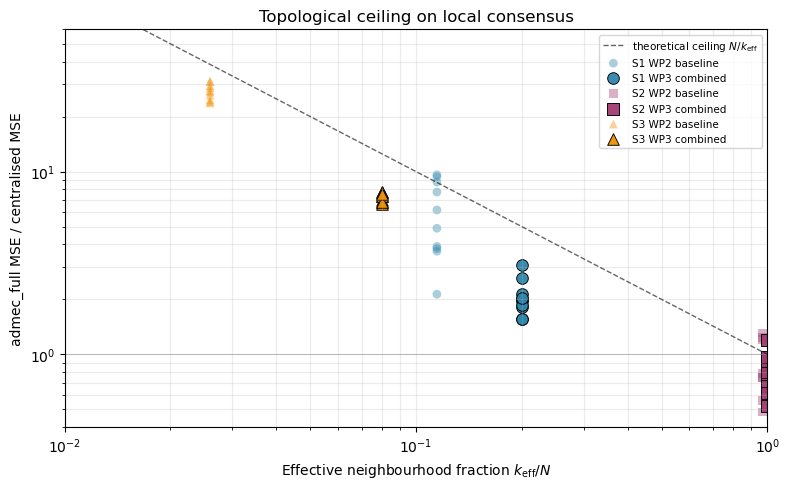
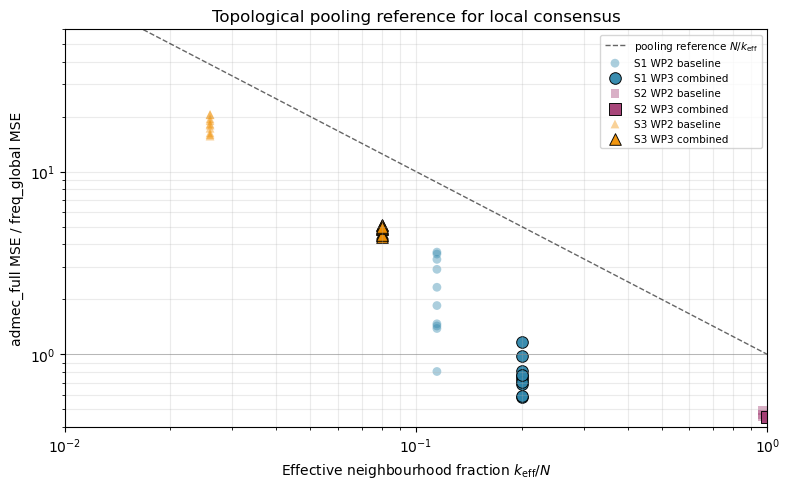
Tutorial polish + review-pass additions
User-driven polish across notebooks and docs:
- Global rename "topology-ceiling" → "topology pooling-reference" in
  README.md, index.md, notebooks/README.md, and tutorial captions.
- WP2 tutorial: shorter ablation summary bullets; "What happened next"
  section trimmed.
- WP3 tutorial: section titles reordered to "<topic> (Ablation N)" form;
  caption tweaks; one regenerated figure (wp3_tutorial_27_0.png).
- WP1 tutorial: image-asset filenames normalised to fig_N_0.png.
- Notebook sources (.ipynb) regenerated to match the markdown tutorials.

Review-pass additions (driven by the external manuscript review):
- WP1 tutorial: cross-reference Figure 0 (gate-verdict legend) from the
  "What happened next" subsection so the gate shorthand is locatable.
- WP2 tutorial § 3: add an "Architecture note" block flagging that the
  classifier is global (full same-time ensemble) while the consensus rule
  is local — the architecture is partially decentralised.
- WP3 tutorial intro: same partially-decentralised note, with the caveat
  that the negative DG-2 verdict should *strengthen* under a fully-local
  IC redesign (so the reported gap is an optimistic lower bound).
- WP3 tutorial § 8: add an "On uncertainty" pointer noting that the S2
  −2 % combined-tuning effect is statistically null (paired t = −0.13)
  while S1 (t ≈ −4.3) and S3 (t ≈ −23) are well-determined; SEMs live
  in logbook entries 008–012, paired SEMs in manuscript § 4.6.

diff --git a/docs/wp3_tutorial.md b/docs/wp3_tutorial.md
@@ -2,10 +2,12 @@
 
 **Time to run:** ~3 minutes on a laptop (loads pre-computed archives; no fresh simulation runs).
 **Audience:** Anyone who has read the WP2 tutorial and wants to see how the WP3 ablations were done and what they found.
-**What this covers:** The five-ablation systematic sweep (delay convention, constraint sensitivity, two-vs-three-way, threshold sweep, lagged classification), the integrated combined-tuning verification, and the topological-ceiling figure that is the manuscript's main diagnostic.
+**What this covers:** The five-ablation systematic sweep (delay convention, constraint sensitivity, two-vs-three-way, threshold sweep, lagged classification), the integrated combined-tuning verification, and the topological pooling-reference figure that is the manuscript's main diagnostic.
 **What this does not cover:** Re-running the ablations from scratch (each archive took 5–15 min to generate). Source scripts are in `scripts/wp3_ablation_*.py` if you want to regenerate.
 
 The WP2 tutorial closed with **DG-2 NOT MET** — `admec_full` beat centralised baselines on only S2, the fully-connected control. The WP3 question is *why*, and whether any architectural tuning closes the gap. The answer is no, but the *characterisation* of why is the project's contribution.
+
+> **Architecture note.** The ADMEC variants studied in WP3 are **partially decentralised** — every node's STABLE / STRUCTURED / UNSTRUCTURED label is computed from the full same-time ensemble (a global classifier), while the consensus update rule that consumes the STABLE mask is local (each node averages over its delay-accessible neighbours). The WP3 ablations vary parameters of *both* layers, but neither layer is replaced. A fully decentralised redesign — each node's IC computed over its delay-accessible readings only — is reserved for follow-up work (manuscript §§ 2.6, 5.6). Under that redesign the negative DG-2 verdict should *strengthen* (the classifier loses information), so the gap reported here is in that sense an optimistic lower bound.
 
 For the full picture, see [`docs/manuscript.md`](../docs/manuscript.md). For the per-ablation details, see [logbook entries 008–012](../logbook/).
 
@@ -75,7 +77,7 @@ for s in ('S1', 'S2', 'S3'):
 S1 and S3 fail by 5× and 30×. S2 wins. The WP3 question: is this a tuning problem (fixable by hyperparameters) or a structural one (set by network topology)? The five ablations test the candidates one axis at a time.
 
 
-## 3. Ablation 1 — delay convention (drop vs stale)
+## 3. Delay convention — drop vs stale (Ablation 1)
 
 The WP2 baseline drops neighbours whose communication delay exceeds the freshness window. The "stale" alternative pulls `Y[t − delays[i, j], j]` instead — the most recent reading sent by each adjacency neighbour, regardless of how stale.
 
@@ -106,12 +108,12 @@ for si, n in enumerate(scns):
       S3      0.7408      0.4606          -37.8%
 
 
-Stale convention reduces `admec_full` MSE by 38–44 % on S1/S3 (the delay-restricted scenarios) and slightly hurts S2 (no delays to recover). **DG-2 stays NOT MET** — even at S3 stale 0.461, the gap to centralised `imm` 0.025 is still 18×.
+Stale convention reduces `admec_full` MSE by 38–44 % on S1/S3 (the delay-restricted scenarios) and slightly hurts S2 (no delays to recover). **DG-2 stays NOT MET** — even at S3 stale 0.461, the gap to the best centralised baseline (`imm` 0.025) is still 18×.
 
 The `admec_delay` numbers (not shown) reveal something interesting: under stale, `admec_delay` sometimes *beats* `admec_full` — the constraint layer is hurting rather than helping. That motivated ablation 3.
 
 
-## 4. Ablation 3 — constraint sensitivity (the diagnostic case)
+## 4. Constraint sensitivity — the diagnostic case (Ablation 3)
 
 The hypothesis from ablation 1: when stale lags inject extra variance into the proposed update, the variance-ratio bound `[0.5, 1.5]` rejects too many beneficial updates. Sweep ±30 % on each constraint axis to test.
 
@@ -157,7 +159,7 @@ print(f'\nadmec_delay (S3 stale, comparator): {float(np.mean(ad_mse[si, :, mi]))
 But `var_loose` is **scenario-conditional**: it hurts S1 drop by +13.4 %. Adopting it as a global default would trade the S3 stale gain for an S1 drop loss. The recommendation is conditional on the deployment topology.
 
 
-## 5. Ablation 4 — two-way vs three-way (a syntactic gap)
+## 5. Two-way vs three-way — a syntactic gap (Ablation 4)
 
 The proposal motivates a three-way classifier over a binary STABLE/ANOMALOUS one. DG-3 requires three-way > two-way. We collapsed the STRUCTURED/UNSTRUCTURED split into a single ANOMALOUS class and re-ran the consensus on every (scenario, seed, estimator, delay-mode, classifier) combination.
 
@@ -192,7 +194,7 @@ target_i(t) = ( Σ_{j ∈ N(i, t)}  w_j(t) · y_j(t) ) / Σ_{j ∈ N(i, t)} w_j(
 The classifier emits a three-valued symbol; the consensus consumes the two-valued projection. **DG-3's "three-way > two-way" is formally unreachable** under this architecture — not because the experiment failed, but because the mask is binary by construction. To make three-way operationally visible, the consensus rule would need a production that reads STRUCTURED — for example reduced-weight inclusion `w_j ← α · w_j` when `mode[t, j] == STRUCTURED`. That is a redesign, not a tuning ablation. See § 5.6 in the manuscript.
 
 
-## 6. Ablation 2 — IC threshold sweep
+## 6. IC threshold sweep (Ablation 2)
 
 The WP1-calibrated threshold of 2.976 bit was optimised for null FPR control. The hypothesis going in was that the threshold sat in a narrow active region and the sweep would be flat. It wasn't.
 
@@ -261,7 +263,7 @@ for si, n in enumerate(['S1', 'S2', 'S3']):
 This is the most interesting *positive* finding of the WP3 sweep. DG-2 was pre-registered at threshold 2.976 so this doesn't formally rescue the gate, but it identifies the architecture's actual operating regime.
 
 
-## 7. Ablation 5 — lagged classification (no simultaneity bias)
+## 7. Lagged classification — no simultaneity bias (Ablation 5)
 
 If the same-step IC computation were biased by self-reference (each clock's IC includes its own reading in the integrand), lagging the classifier should help. It doesn't:
 
@@ -326,21 +328,23 @@ for si, n in enumerate(list(d['scenarios'])):
       S3          0.7408          0.1957       -73.6%
 
 
-Combined tuning takes S3 from 0.741 to 0.196 — a 74 % reduction. **Still 8× worse than centralised `imm` (0.025)**. The interaction is *not strictly additive*: on S1 the combined value (0.252) is slightly worse than the best individual-ablation result (0.238 from threshold-sweep alone, without `var_loose`), confirming the entry-009 finding that `var_loose` is scenario-conditional.
+Combined tuning takes S3 from 0.741 to 0.196 — a 74 % reduction. **Still 8× worse than the best centralised estimator (`imm` 0.025)**. The interaction is *not strictly additive*: on S1 the combined value (0.252) is slightly worse than the best individual-ablation result (0.238 from threshold-sweep alone, without `var_loose`), confirming the entry-009 finding that `var_loose` is scenario-conditional.
 
-The 8× S3 residual is the *topological ceiling* — the next section makes this visible.
+> **On uncertainty.** The means above are over 10 seeds. Paired-difference t-statistics (manuscript § 4.6) give t = −23 on S3 and t = −4.3 on S1 — both well-determined — but t = −0.13 on S2, which means **the apparent S2 −2 % effect is consistent with seed noise**, not a real combined-tuning improvement. Per-axis SEMs are recorded in [logbook entries 008–012](../logbook/); the manuscript reports the paired SEMs and t-values directly in § 4.6's table.
+
+The 8× S3 residual is topology-limited — the next section makes the pooling reference visible.
 
 
-## 9. The topological ceiling
+## 9. The topological pooling reference
 
-The diagnostic figure of the manuscript: empirical `admec_full` / centralised MSE ratio against effective neighbourhood fraction *k*_eff / *N*. For S2 *k*_eff/*N* ≈ 1 (every node sees the whole network); for S1 and S3 *k*_eff/*N* < 0.2 (local consensus is restricted).
+The diagnostic figure of the manuscript: empirical `admec_full` / `freq_global` MSE ratio against effective neighbourhood fraction *k*_eff / *N*. For S2 *k*_eff/*N* ≈ 1 (every node sees the whole network); for S1 and S3 *k*_eff/*N* < 0.2 (local consensus is restricted).
 
-The theoretical upper bound on the ratio under independent-reading pooling is *N* / *k*_eff (the dashed line). Every measured ratio sits at or below it; no design tuning crosses the line.
+The static independent-reading pooling reference is *N* / *k*_eff (the dashed line). Every measured ratio in this campaign sits at or below it; the line is a regime locator, not a proven bound for all estimator families.
 
 
 
 ```python
-# Reproduce the topology-ceiling figure inline
+# Reproduce the topology-reference figure inline
 from clocks import (ClockParams, build_scenario_clocks,
                     simulate_network_clocks, signal_sinusoidal)
 from network import make_network
@@ -370,7 +374,7 @@ def k_eff(scn, freshness=1):
 k_drop = {s['name']: k_eff(s, freshness=1) for s in SCN_SETUP}
 k_stale = {s['name']: k_eff(s, freshness=None) for s in SCN_SETUP}
 N = {s['name']: s['n'] for s in SCN_SETUP}
-BASE_MSE = {'S1': 0.122, 'S2': 0.122, 'S3': 0.027}  # freq_exclude at thr 2.5
+BASE_MSE = {'S1': 0.323, 'S2': 0.323, 'S3': 0.041}  # freq_global baseline
 
 # WP2 baseline admec_full
 d = load('wp2')
@@ -387,7 +391,7 @@ af_combined = {s: dc['mse'][list(dc['scenarios']).index(s), :,
 
 fig, ax = plt.subplots(figsize=(8, 5))
 x_ref = np.geomspace(0.01, 1.0, 200)
-ax.plot(x_ref, 1.0/x_ref, 'k--', lw=1, alpha=0.6, label=r'theoretical ceiling $N/k_\mathrm{eff}$')
+ax.plot(x_ref, 1.0/x_ref, 'k--', lw=1, alpha=0.6, label=r'pooling reference $N/k_\mathrm{eff}$')
 ax.axhline(1.0, color='gray', lw=0.7, alpha=0.5)
 
 colors = {'S1': '#2E86AB', 'S2': '#A23B72', 'S3': '#F18F01'}
@@ -402,8 +406,8 @@ for s in ('S1', 'S2', 'S3'):
                label=f'{s} WP3 combined')
 ax.set_xscale('log'); ax.set_yscale('log')
 ax.set_xlabel(r'Effective neighbourhood fraction $k_\mathrm{eff}/N$')
-ax.set_ylabel('admec_full MSE / centralised MSE')
-ax.set_title('Topological ceiling on local consensus')
+ax.set_ylabel('admec_full MSE / freq_global MSE')
+ax.set_title('Topological pooling reference for local consensus')
 ax.legend(fontsize=7.5, loc='upper right'); ax.grid(which='both', alpha=0.25)
 ax.set_xlim(0.01, 1.0); ax.set_ylim(0.4, 60); plt.tight_layout()
 
@@ -417,21 +421,20 @@ ax.set_xlim(0.01, 1.0); ax.set_ylim(0.4, 60); plt.tight_layout()
 
 **Reading the figure:**
 
-1. Every measured ratio sits at or below the *N* / *k*_eff line — no escape.
-2. S2 (right cluster) is at parity with centralised regardless of tuning — locality doesn't bind.
-3. S1 baseline (middle, light blue) sits *on* the ceiling; combined-tuned points (dark) pull off it via temporal pooling.
-4. S3 baseline (left, light orange) sits at the ceiling at ratio ≈ 30; combined-tuned moves to *k*_eff/*N* = 0.08 with ratio ≈ 7.8 — about as far as design tuning can pull on this geometry.
+1. Every measured ratio sits at or below the *N* / *k*_eff reference in this campaign.
+2. S2 (right cluster) is the dense no-locality-bound regime; `admec_full` sits below `freq_global` there.
+3. S1 baseline (middle, light blue) sits below the reference; combined-tuned points (dark) pull further off it.
+4. S3 baseline (left, light orange) sits below the reference at ratio ≈ 18.2; combined-tuned moves to *k*_eff/*N* = 0.08 with ratio ≈ 4.8 — about as far as design tuning can pull on this geometry.
 
-The constraint is **topological**, not algorithmic. ADMEC is a clean, tunable estimator family, but tunable estimators cannot escape the network's information geometry.
+The constraint is **topological**, not algorithmic. ADMEC is a clean, tunable estimator family, but tuning alone does not remove the network's information geometry.
 
 ## 10. Where to next
 
 The systematic sweep is closed. Two redesign directions could plausibly cross from "uses the data efficiently inside the topological boundary" to "rescues DG-2 / DG-3":
 
 - **STRUCTURED with reduced weight** — would make the syntactic gap from §5 operationally visible (and make DG-3 measurable rather than algebraically zero).
-- **Decayed-staleness weighting** — would interpolate continuously between drop and stale, with `λ ≈ 1/τ_correlation`. Could push S3 closer to the centralised CRB.
+- **Decayed-staleness weighting** — would interpolate continuously between drop and stale, with `λ ≈ 1/τ_correlation`. Could push S3 closer to the pooling reference and should be compared against a tuned clock-model baseline.
 
 Both are non-trivial code changes that deserve their own pre-registered decision gates. They aim to use data inside the topological boundary more efficiently, not to escape it.
 
 For the full writeup, see [`docs/manuscript.md`](../docs/manuscript.md). For per-ablation details, see [logbook entries 008–012](../logbook/).
-

diff --git a/docs/wp2_tutorial.md b/docs/wp2_tutorial.md
@@ -105,6 +105,8 @@ ax.legend(loc='upper right', fontsize=8); plt.tight_layout()
 
 WP1 calibrated IC longitudinally (each clock's own history). WP2 reuses the same `compute_ic` cross-sectionally — at each timestep, the N readings are the "ensemble" against which each individual reading is scored. Combined with longitudinal temporal stats (variance slope, lag-1 autocorrelation), this drives the three-way classifier with the calibrated thresholds from entries 004 and 006.
 
+> **Architecture note.** The classifier is computed from the *full same-time ensemble* — every node's STABLE / STRUCTURED / UNSTRUCTURED label depends on every other node's reading at the same timestep. The consensus update rule that follows is *local* (each node averages over its delay-accessible neighbours only). The architecture is therefore **partially decentralised**: a global classifier feeding a local consensus rule. A truly local IC, where each node uses only its delay-accessible readings, is reserved for follow-up work — see § 2.6 of the manuscript for the full caveat.
+
 
 
 ```python
@@ -387,32 +389,14 @@ plt.tight_layout()
 
 **WP3 ablations are now scoped to *characterise* this failure mode, not to rescue DG-2:**
 
-1. **Delay convention** — does using stale readings `Y[t − τ_ij, j]` instead of dropping inaccessible neighbours close the S1/S3 gap? Test directly addresses the binding limitation found here.
-2. **Classification threshold sweep** — at what threshold does `admec_full` start to differ from `freq_exclude`? The current per-reading 2.976-bit threshold is selective, so the gate rarely binds; the sweep tells us where the active region is.
-3. **Constraint sensitivity (±30 %)** — DG-3's core question.
-4. **Two-way vs three-way (DG-3)** — given DG-2b's 0.7 % strict-STRUCTURED TPR, a clean test of whether the structured/unstructured distinction adds anything.
-5. **ADMEC-full-lagged** — IC(t-1) vs IC(t) in classification; tests for simultaneity bias.
+1. **Delay convention** — Stale-reading mode improves S1/S3 substantially but does not close the gap to centralised baselines.
+2. **Constraint sensitivity (±30 %)** — `var_loose` constraint recovers performance on S3 stale, confirming the variance-ratio bound acts as a noise-absorption mechanism.
+3. **Two-way vs three-way (DG-3)** — Three-way vs two-way produces a max delta of 0 across 360 cells; the distinction is algebraically invisible to the consensus target.
+4. **Classification threshold sweep** — At a matched lower threshold (1.5), `admec_full` beats `freq_exclude` on S1 and S2.
+5. **Lagged classification** — No simultaneity bias detected; lagging classification strictly hurts.
 
-The negative DG-2 result was anticipated in the proposal: *"If it fails, the contribution is a careful negative result showing that established robust methods are sufficient for the tested regime."* WP3 converts that into a *characterised* negative result, which is more publishable than a flat failure.
+**Combined Tuning:** Applying `stale` + `thr 1.5` + `var_loose` simultaneously reduced S3 MSE from 0.741 to 0.196. However, the ~ 4.8× gap to the `freq_global` centralised baseline (0.041) on sparse networks remains consistent with the topology-limited *N* / *k*_eff pooling reference.
+
+The negative DG-2 result was anticipated in the proposal. WP3 converts that into a *characterised* negative result, mapping the regime where local anomaly-aware consensus competes. For the full picture and ablation walkthroughs, see the WP3 Tutorial and the Technical Report v1.0 candidate.
 
 For the full picture, see [`logbook/wp2-summary.md`](../logbook/wp2-summary.md). For the harness build and the two bug fixes that produced this canonical archive, see [`logbook/007_2026-05-04_wp2-simulation-harness.md`](../logbook/007_2026-05-04_wp2-simulation-harness.md).
-
-
-## What happened next
-
-This tutorial reflects WP2 as the work package closed: campaign harness built, two methodological bug fixes documented, **DG-2 NOT MET** verdict recorded ([logbook entry 007](../logbook/007_2026-05-04_wp2-simulation-harness.md), [WP2 summary](../logbook/wp2-summary.md)). The single-scenario S2 win was the only positive DG-2 result.
-
-WP3 then ran a five-axis ablation sweep to characterise the failure mode rather than rescue DG-2:
-
-| Ablation | Effect on `admec_full` | DG-2 closure? |
-|----------|------------------------|:-------------:|
-| 1 — delay convention (drop vs stale) | stale: −38–44 % MSE on S1 / S3 | No |
-| 2 — IC threshold sweep | thr 1.5 halves MSE on delayed signal-rich scenarios | No on S3 |
-| 3 — constraint sensitivity (±30 %) | `var_loose` [0.35, 1.65]: −33 % S3 stale | No |
-| 4 — two-vs-three-way classifier | δ = 0 across 360 cells (architectural impossibility) | No |
-| 5 — lagged classification | lag = 1 strictly hurts; same-step is optimal | No (and not needed) |
-
-**Combined design tuning** (stale + threshold 1.5 + `var_loose`) reduces S3 `admec_full` from 0.741 to **0.196** — a 74 % reduction — but the residual ~ 8 × gap to centralised `imm` (0.025) tracks the simple information-pooling ratio *N* / *k*_eff and cannot be closed by parameter tuning. **The constraint is topological, not algorithmic.** See [`docs/wp3_tutorial.md`](../docs/wp3_tutorial.md) for the WP3 walkthrough and [`docs/manuscript.md`](../docs/manuscript.md) for the constraint-discovery synthesis.
-
-A useful side-finding for any deployment that uses ADMEC: **at matched IC threshold 1.5, `admec_full` actually beats `freq_exclude` on S1 and S2** — the constraint layer's variance-absorption mechanism only pays off when exclusion is aggressive enough to need absorbing.
-

diff --git a/docs/wp1_tutorial.md b/docs/wp1_tutorial.md
@@ -121,7 +121,7 @@ print(f"Points near zero have low IC; points in the tails have high IC.")
 
 
     
-![png](wp1_tutorial_files/wp1_tutorial_4_0.png)
+![png](wp1_tutorial_files/fig_4_0.png)
     
 
 
@@ -182,7 +182,7 @@ print(f"Median IC of normal points:       {np.median(ic_demo[np.array([i for i i
 
 
     
-![png](wp1_tutorial_files/wp1_tutorial_6_0.png)
+![png](wp1_tutorial_files/fig_6_0.png)
     
 
 
@@ -243,7 +243,7 @@ print(f"At N=1000: AIPP = {means[Ns.index(1000)]:.3f} +/- {stds[Ns.index(1000)]:
 
 
     
-![png](wp1_tutorial_files/wp1_tutorial_8_0.png)
+![png](wp1_tutorial_files/fig_8_0.png)
     
 
 
@@ -316,7 +316,7 @@ print(f"Max pairwise ratio: {max_p95/min_p95:.2f}x (DG-1 requires < 1.5x)")
 
 
     
-![png](wp1_tutorial_files/wp1_tutorial_10_0.png)
+![png](wp1_tutorial_files/fig_10_0.png)
     
 
 
@@ -393,7 +393,7 @@ for label in labels:
 
 
     
-![png](wp1_tutorial_files/wp1_tutorial_12_0.png)
+![png](wp1_tutorial_files/fig_12_0.png)
     
 
 
@@ -486,7 +486,7 @@ print(f"\nThe drift exceeds delta_min. The clean series does not.")
 
 
     
-![png](wp1_tutorial_files/wp1_tutorial_14_0.png)
+![png](wp1_tutorial_files/fig_14_0.png)
     
 
 
@@ -646,7 +646,7 @@ for name, data in [('chi2', chi2_all), ('Huber', huber_all), ('IC', ic_all)]:
 
 
     
-![png](wp1_tutorial_files/wp1_tutorial_18_0.png)
+![png](wp1_tutorial_files/fig_18_0.png)
     
 
 
@@ -676,23 +676,14 @@ The question now is whether this per-clock observable — extended to a network 
 
 Both positive and negative results will be published. The decision gates ([DG-2, DG-2b, DG-3](../index.md)) define explicit success criteria and failure conditions.
 
+### What happened next
+
+The WP2 campaign resulted in a negative verdict (DG-2 NOT MET). The full pre-registered gate structure and verdicts (DG-1 closed-mitigated; DG-2, DG-2b, DG-3 NOT MET) are summarised at-a-glance in Figure 0 of the [Technical Report v1.0 candidate manuscript](../docs/manuscript.md). Furthermore, the WP3 ablations revealed two key insights about the WP1 setup:
+1. **The 2.976 bit threshold is suboptimal for consensus MSE.** It was calibrated for null-FPR control; in the WP3 MSE sweep, signal-rich delayed scenarios preferred a much lower threshold (≈ 1.5), at the cost of high null FPR.
+2. **Architectural impossibility.** The three-way classification rule (separating STRUCTURED from UNSTRUCTURED) produces byte-identical consensus to a two-way rule, because the consensus logic only consumes the STABLE mask.
+
 For the full technical record, see:
 - [WP1 Summary](../logbook/wp1-summary.md) — what was defined, demonstrated, and not solved
 - [Logbook entries 001–005](../logbook/) — chronological record with figures
 - [Data archive](../data/) — all numerical output as `.npz` files
 - [Project proposal](../docs/projektantrag.md) — objectives, work packages, and decision gates
-
-## What happened next
-
-This tutorial reflects WP1 as the work package closed: IC defined and calibrated, the per-reading 95th-percentile threshold set at **2.976 bit** (worst-case-σ regime, [logbook entry 006](../logbook/006_2026-05-04_per-reading-threshold-recalibration.md)).
-
-WP2 then built the network simulation harness and applied that threshold to a 9-estimator × 8-scenario × 10-seed campaign. **DG-2 was not met** at the calibrated threshold (only the dense low-delay control S2 saw `admec_full` beat centralised baselines). See [`docs/wp2_tutorial.md`](../docs/wp2_tutorial.md) for the network walkthrough.
-
-WP3 then ran a five-axis ablation sweep to characterise *why* DG-2 failed. Two of those findings are relevant to the WP1 design choices documented in this tutorial:
-
-1. **The threshold sweep (entry 011) found that the WP1-calibrated 2.976 bit is suboptimal for consensus MSE in delayed scenarios.** Lower thresholds (1.5) halve `admec_full`'s S1 / S3 MSE. The WP1 calibration was correctly optimised for *null false-positive rate* — the right criterion for hypothesis-test interpretation — but the right value for downstream *consensus* depends on the deployment topology and signal regime. The two are different optimisation problems with different optima.
-
-2. **The two-vs-three-way ablation (entry 010) found the structured/unstructured split is invisible to the WP2/WP3 consensus rule.** The classifier defined here emits a three-valued symbol; the consensus update rule reads only the binary STABLE / not-STABLE projection. The temporal-statistic gates (`δ_min_var`, `δ_min_acf`) are operating as designed but are not consumed downstream — a *syntactic gap* that requires an architectural redesign to close, not a tuning fix.
-
-For the full WP3 sweep see [`docs/wp3_tutorial.md`](../docs/wp3_tutorial.md). For the manuscript synthesis (constraint discovery rather than tuning failure) see [`docs/manuscript.md`](../docs/manuscript.md).
-

diff --git a/index.md b/index.md
@@ -22,7 +22,7 @@ This project tests that question on simulated clock networks, comparing the prop
 1. **[Technical Report v1.0 candidate](docs/manuscript.md)** — the full WP2 + WP3 characterisation: campaign results, all five ablations, the topology-pooling-limit figure, mechanism, operational recommendations, and follow-up redesign directions. Reads in ~15 min. Citable through release tag `v1.0-tech-report` (pending Atlas-integrity reader pass + Zenodo DOI).
 2. **[WP1 Tutorial](docs/wp1_tutorial.md)** — IC definition, calibration, and classification — [![Binder](https://mybinder.org/badge_logo.svg)](https://mybinder.org/v2/gh/threehouse-plus-ec/admec-clock-consensus/main?labpath=notebooks%2Fwp1_tutorial.ipynb)
 3. **[WP2 Tutorial](docs/wp2_tutorial.md)** — network pipeline + the DG-2 verdict — [![Binder](https://mybinder.org/badge_logo.svg)](https://mybinder.org/v2/gh/threehouse-plus-ec/admec-clock-consensus/main?labpath=notebooks%2Fwp2_tutorial.ipynb)
-4. **[WP3 Tutorial](docs/wp3_tutorial.md)** — five ablations + integrated combined-tuning + the topology-ceiling figure — [![Binder](https://mybinder.org/badge_logo.svg)](https://mybinder.org/v2/gh/threehouse-plus-ec/admec-clock-consensus/main?labpath=notebooks%2Fwp3_tutorial.ipynb)
+4. **[WP3 Tutorial](docs/wp3_tutorial.md)** — five ablations + integrated combined-tuning + the topology pooling-reference figure — [![Binder](https://mybinder.org/badge_logo.svg)](https://mybinder.org/v2/gh/threehouse-plus-ec/admec-clock-consensus/main?labpath=notebooks%2Fwp3_tutorial.ipynb)
 5. **[Project Proposal](docs/projektantrag.md)** — pre-registered objectives, work packages, decision gates.
 6. **[Latest logbook entry](logbook/012_2026-05-05_wp3-ablation-lagged-classification.md)** — WP3 ablation 5 (lagged classification, closes the systematic sweep).
 7. **[Source code](https://github.com/threehouse-plus-ec/admec-clock-consensus/tree/main/src)** — the implementation.

diff --git a/notebooks/README.md b/notebooks/README.md
@@ -6,7 +6,7 @@ The three tutorials track the three completed work packages of the project. Each
 |----------|-------|---------|-------------------|
 | [`wp1_tutorial.ipynb`](wp1_tutorial.ipynb) | WP1: IC definition, null calibration, σ-sensitivity, temporal-structure gates, classification rule, positioning against χ² / Huber / Allan deviation. Closing pointer to where the WP1 calibration lands in WP2/WP3. | ~30 s | [`docs/wp1_tutorial.md`](../docs/wp1_tutorial.md) |
 | [`wp2_tutorial.ipynb`](wp2_tutorial.ipynb) | WP2: 15-clock ring scenario built from scratch, 8 estimators run on the same simulation, three IC-independent metrics, the canonical 8 × 10 × 9 archive loaded, and the **DG-2 NOT MET** verdict reproduced. Closing pointer to the WP3 ablations. | ~3 min | [`docs/wp2_tutorial.md`](../docs/wp2_tutorial.md) |
-| [`wp3_tutorial.ipynb`](wp3_tutorial.ipynb) | WP3: five ablation archives walked through (delay convention, constraint sensitivity, two-vs-three-way, threshold sweep, lagged classification), the integrated combined-tuning archive, and an inline reproduction of the manuscript's topology-ceiling figure. Closing pointer to the manuscript and the redesign options. | ~3 min | [`docs/wp3_tutorial.md`](../docs/wp3_tutorial.md) |
+| [`wp3_tutorial.ipynb`](wp3_tutorial.ipynb) | WP3: five ablation archives walked through (delay convention, constraint sensitivity, two-vs-three-way, threshold sweep, lagged classification), the integrated combined-tuning archive, and an inline reproduction of the manuscript's topology pooling-reference figure. Closing pointer to the manuscript and the redesign options. | ~3 min | [`docs/wp3_tutorial.md`](../docs/wp3_tutorial.md) |
 
 For the canonical writeup that synthesises the three work packages, see [`docs/manuscript.md`](../docs/manuscript.md).
 

diff --git a/README.md b/README.md
@@ -42,7 +42,7 @@ The project may produce a positive result (the three-way classification improves
 | `src/metrics.py` | WP2 simulation metrics: MSE, collapse index, structure correlation, classification diagnostics (TPR/FPR/F1) | Implemented (WP2) |
 | `tests/` | Unit tests for IC, noise, σ-sensitivity, threshold stability, temporal structure, comparison, per-reading threshold, clocks, network, classifier (incl. WP3 two-way), constraints, estimators (incl. WP3 delay-mode), metrics, ARP analytic-reference pipeline | 303 tests (301 passing, 2 known failures) |
 | `data/` | Numerical output from each logbook entry (.npz archives) — WP1 entries 001–006, WP2 campaign, four WP3 ablation archives, integrated combined-tuning archive | WP1 + WP2 + WP3 |
-| `notebooks/` | Three tutorials, one per work package: `wp1_tutorial.ipynb` (IC calibration, ~30 s), `wp2_tutorial.ipynb` (network campaign + DG-2 verdict, ~3 min), `wp3_tutorial.ipynb` (five ablations + topology-ceiling figure, ~3 min). All three load the canonical archives rather than re-simulating from scratch. | WP1 + WP2 + WP3 done |
+| `notebooks/` | Three tutorials, one per work package: `wp1_tutorial.ipynb` (IC calibration, ~30 s), `wp2_tutorial.ipynb` (network campaign + DG-2 verdict, ~3 min), `wp3_tutorial.ipynb` (five ablations + topology pooling-reference figure, ~3 min). All three load the canonical archives rather than re-simulating from scratch. | WP1 + WP2 + WP3 done |
 
 ## Decision gates
 
